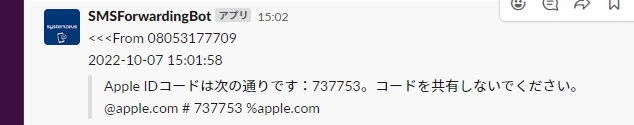
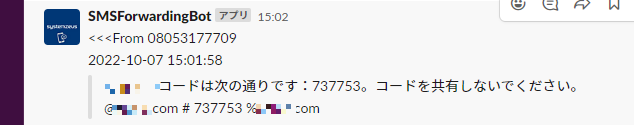
docs: :memo: README更新

Changed region(s): [[0.1498, 0.648, 0.2697, 0.768], [0.3896, 0.816, 0.4795, 0.912], [0.1498, 0.84, 0.2397, 0.936]]

diff --git a/README.md b/README.md
@@ -11,8 +11,8 @@ $ python3 main.py --log-level debug
 ⚡ Bolt app is running!
 [2022/10/07 15:02:20.26 ][   DEBUG] <<<From 08053177709
 2022-10-07 15:01:58
->>>Apple IDコードは次の通りです：737753。コードを共有しないでください。
-@apple.com # 737753 %apple.com 
+>>>*** IDコードは次の通りです：737753。コードを共有しないでください。
+@***.com # 737753 %***.com 
 ```
 
 Slack<br>
@@ -58,13 +58,14 @@ $ git clone https://github.com/SystemzeusInc/SMSForwardingBot.git
 1. ワークスペースに再インストール  
     "OAuth & Permissions" > "OAuth Tokens for Your Workspace"の"Reinstall to Workspace"を押下
 
-### Slack
+### Slackチャンネル
 
 1. 目的のチャンネルにアプリを参加させる  
     チャンネルを左クリックし、"チャンネル詳細を表示する" > "インテグレーション" > "アプリを追加する"を選択し、先ほど作成したアプリを選択  
 
 ### Raspberry Pi
 
+#### ボットの設定
 1. ライブラリをインストール  
     ```bash
     $ pip install -r requirements.txt
@@ -93,76 +94,102 @@ $ git clone https://github.com/SystemzeusInc/SMSForwardingBot.git
     slack_channel = #sms_auth
     ```
 
+#### USBモデムの設定
+
+この設定でUSBドングル(モデム)がインターネットに接続できるようになる。
+
+ 1. ライブラリをインストール
+
+    ```bash
+    $ sudo apt update
+    $ sudo apt install screen wvdial usb-modeswitch
+    ```
+
+1. デバイス(USB)のルールファイルを作成
+   
+    以下のファイルを作成
+    /etc/udev/rules.d/30-soracom.rules
+    ```text
+    # AK-020
+    ACTION=="add", ATTRS{idVendor}=="15eb", ATTRS{idProduct}=="a403", RUN+="/usr/sbin/usb_modeswitch --std-eject --default-vendor 0x15eb --default-product 0xa403 --target-vendor 0x15eb --target-product 0x7d0e"
+    ACTION=="add", ATTRS{idvendor}=="15eb", ATTRS{idProduct}=="7d0e", RUN+="/sbin/modprobe usbserial vendor=0x15eb product=0x7d0e" 
+
+    KERNEL=="ttyUSB*", ATTRS{../idVendor}=="15eb", ATTRS{../idProduct}=="7d0e", ATTRS{bNumEndpoints}=="03", ATTRS{bInterfaceNumber}=="02", SYMLINK+="modem", ENV{SYSTEMD_WANTS}="ifup@wwan0.service"
+    ```
+
+1. wvdialの設定
+
+    以下のファイルを作成
+    /etc/wvdial.conf ※docomoの場合  
+    ```conf
+    [Dialer Defaults]
+    Init1 = AT+CFUN=1
+    Init2 = ATZ
+    Init3 = AT+CGDCONT=1,"IP","spmode.ne.jp"
+    Dial Attempts = 0
+    Stupid Mode = 1
+    Modem Type = Analog Modem
+    Dial Command = ATD
+    Stupid Mode = yes
+    Baud = 460800
+    New PPPD = yes
+    ISDN = 0
+    APN = spmode.ne.jp
+    Phone = *99***1#
+    Username = spmode
+    Password = spmode
+    Carrier Check = no
+    Auto DNS = 1
+    Check Def Route = 1
+    ```
+
+    ※docomo以外の場合はAPN,Username,Passwordを使用するキャリアのものにしてください
+    
+
 #### 自動起動の設定を行う場合
 
-```bash
-$ sudo pip install -r requirements.txt
-$ sudo apt update
-$ sudo apt install screen wvdial usb-modeswitch
-```
+この設定を行えば電源を入れるだけでこのボットが起動するようになる。
 
-/etc/udev/rules.d/30-soracom.rules
-```text
-# AK-020
-ACTION=="add", ATTRS{idVendor}=="15eb", ATTRS{idProduct}=="a403", RUN+="/usr/sbin/usb_modeswitch --std-eject --default-vendor 0x15eb --default-product 0xa403 --target-vendor 0x15eb --target-product 0x7d0e"
-ACTION=="add", ATTRS{idvendor}=="15eb", ATTRS{idProduct}=="7d0e", RUN+="/sbin/modprobe usbserial vendor=0x15eb product=0x7d0e" 
+1. python実行スクリプトを作成
 
-KERNEL=="ttyUSB*", ATTRS{../idVendor}=="15eb", ATTRS{../idProduct}=="7d0e", ATTRS{bNumEndpoints}=="03", ATTRS{bInterfaceNumber}=="02", SYMLINK+="modem", ENV{SYSTEMD_WANTS}="ifup@wwan0.service"
-```
+    以下のファイルを作成  
 
-/etc/wvdial.conf ※docomoの場合  
-```conf
-[Dialer Defaults]
-Init1 = AT+CFUN=1
-Init2 = ATZ
-Init3 = AT+CGDCONT=1,"IP","spmode.ne.jp"
-Dial Attempts = 0
-Stupid Mode = 1
-Modem Type = Analog Modem
-Dial Command = ATD
-Stupid Mode = yes
-Baud = 460800
-New PPPD = yes
-ISDN = 0
-APN = spmode.ne.jp
-Phone = *99***1#
-Username = spmode
-Password = spmode
-Carrier Check = no
-Auto DNS = 1
-Check Def Route = 1
-```
+    /opt/sms_forwarding_bot.sh 
 
-/opt/sms_forwarding_bot.sh 
-```bash
-#!/bin/bash
+    ```bash
+    #!/bin/bash
 
-sudo modprobe usbserial vendor=0x15eb product=0x7d0e # 暫定処置
+    sudo modprobe usbserial vendor=0x15eb product=0x7d0e 
 
-sleep 10
-cd /home/pi/SMSForwardingBot/src/
-python3 main.py
-```
+    sleep 10
+    cd /home/pi/SMSForwardingBot/src/
+    python3 main.py
+    ```
 
-/etc/systemd/system/sms_forwarding_bot.service
-```conf
-[Unit]
-Description = SMS Forwarding Bot
+1. スクリプトを実行するサービスを登録
+   
+    以下のファイルを作成  
 
-[Service]
-ExecStart = /opt/sms_forwarding_bot.sh
-Restart = always
-Type = simple
+    /etc/systemd/system/sms_forwarding_bot.service
+    ```conf
+    [Unit]
+    Description = SMS Forwarding Bot
 
-[Install]
-WantedBy = multi-user.target
-```
+    [Service]
+    ExecStart = /opt/sms_forwarding_bot.sh
+    Restart = always
+    Type = simple
 
-サービス起動
-```bash
-$ sudo systemctl enable sms_forwarding_bot
-$ sudo systemctl start sms_forwarding_bot
-```
+    [Install]
+    WantedBy = multi-user.target
+    ```
+
+1. サービス起動
+
+    ```bash
+    $ sudo systemctl enable sms_forwarding_bot
+    $ sudo systemctl start sms_forwarding_bot
+    ```
 
 ## 使用方法
 
